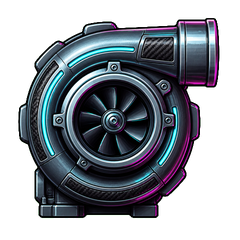
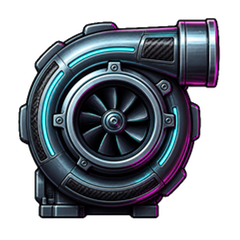
R145: the Astra static proofs are in the theme tree; the hero on stage does not change
Owner-briefed intake of three rasters, SC-06 ui/scene_character.png, SY-06 symbols/h2.png
and SY-09 symbols/m3.png, from the chatgpt-astra-static-proof package, through the real
ingest path. Brief saved verbatim.

THE HERO ON STAGE WILL NOT CHANGE. App.svelte:2261 mounts SceneGroup without heroMode,
SceneGroup.svelte:46 defaults it to 'idle', and SceneGroup.svelte:96-97 draws HeroIdle,
which paints ui/hero/hero_crossed_idle_6f.png (HeroIdle.svelte:139, :321).
scene_character.png is only in the {:else} branch at SceneGroup.svelte:99. Confirmed live
at 1280: the page never requests scene_character.png. In the brief's words: hero on stage
will not change until Path 1 freeze points rest at this file.

PROVENANCE VERIFIED, NOT REPORTED. The supplier's retouch function, run in memory on
HEAD's three files and resized with the same sharp 0.35.4 lanczos3, reproduces all three
delivered proofs byte for byte. The proofs are a deterministic function of the shipped
art: zero generated pixels, and the three rejected gpt-image edits contribute nothing.
The shipped art is R137's OpenAI gpt-image-1 placeholder set, owner-authorised under
support Ticket 456254 for development-stage artwork. The supplier's "silhouetteIoU: 1" is
a literal in its script, not a measurement, so IoU was measured here.

THE INGEST PATH, CALIBRATED FIRST. Today's ingest.py reproduces the SHIPPED h2.png and
scene_character.png byte for byte from their recorded 2026-08-24 sources, so it is the
[…]

diff --git a/reports/briefs/FS_R145_AstraStaticProofIntake_Prompt.md b/reports/briefs/FS_R145_AstraStaticProofIntake_Prompt.md
@@ -1,0 +1,81 @@
+R145: ASTRA STATIC PROOF INTAKE — THREE FILES ONLY.
+Review lane. Medium effort. Save and commit this brief verbatim.
+
+WHY THIS EXISTS
+Owner restarted npm and saw no change. Correct: chatgpt-astra-static-proof
+is scratch-only. Shipped rasters were never touched. This session copies
+the three accepted proofs into the live theme tree so the look-pass is real.
+
+FENCE
+- Only these three live rasters may change, and only after ingest accepts them.
+- Do not stage unrelated WIP rasters. Do not generate images. Do not call APIs.
+- Do not touch games/ math, rgsService.ts, gameStore.ts, HeroIdle flipbooks
+  except to REPORT which file the on-stage hero actually draws.
+- Owner preview on 5173 stays untouched. Use another port.
+- Fingerprint dirty rasters before any file op.
+- Kit packaging forbidden.
+
+SOURCES
+/Users/jt/math-sdk/.scratch/art-review/chatgpt-astra-static-proof/
+  01-hero-rest-680x1344.png
+  02-h2-turbo-480.png
+  03-m3-dash-480.png
+  PROMPTS_AND_QA.md
+
+TARGETS (shipped)
+  frontend/public/assets/themes/future-spinner/ui/scene_character.png
+  frontend/public/assets/themes/future-spinner/symbols/h2.png
+  frontend/public/assets/themes/future-spinner/symbols/m3.png
+
+PRECONDITIONS
+1. On main, pull. Confirm the three sources exist and the three targets exist.
+2. Read PROMPTS_AND_QA.md. Authority: IoU 1.000 vs shipped, max RGB 14/255,
+   generative edits rejected, 480s are 2× of native 240s.
+3. Trace the live hero: SceneGroup / HeroIdle / App. Record file:line for
+   which raster is on stage at rest. If rest is an idle sheet and not
+   scene_character.png, STILL swap scene_character.png, but say clearly
+   "hero on stage will not change until Path 1 freeze points rest at this
+   file." Do not invent a sheet rebuild in this session.
+
+WORKSTREAM 1 — MEASURE THEN INGEST
+- Measure source vs target dimensions.
+- Hero: 680×1344 → 680×1344, native alpha, no keyer.
+- H2 / M3: 480×480 proofs → shipped 240×240. Downscale with the project
+  ingest path (the one that already proved byte-reproducible on hero
+  sheets). Do not stretch. Do not green-key; these are RGBA cutouts.
+- Refuse if aspect drift, IoU vs current shipped < 0.99, or alpha hole.
+- Compare-against-shipped: expect near-identical silhouette; material
+  delta only. If a proof is a different robot/turbo/dash, STOP that row.
+
+WORKSTREAM 2 — SWAP
+- Copy accepted ingest outputs over the three targets in the working tree.
+- Do not commit the rasters unless the repo's current rule allows owner-
+  approved theme rasters on this lane. If the standing fence is still
+  "records only, rasters uncommitted," leave them dirty for the owner's
+  look-pass and say so. Prefer matching how R137 placeholders were
+  handled: visible locally, committed only if main now accepts theme
+  rasters.
+- Leave idle / win / brace sheets untouched.
+
+WORKSTREAM 3 — PROVE IN A BROWSER YOU START
+- Own server, not 5173.
+- Confirm h2.png and m3.png network responses are the new bytes
+  (hash vs pre-swap).
+- Confirm scene_character.png hash changed.
+- Screenshot rest + a board that contains H2 and M3 if the mock/dev
+  path can show them; otherwise show paytable / symbol atlas.
+- 1280 and 390: no clip, no missing asset, zero console 404s.
+
+RECORDS
+SESSION_REPORT + dated archive. Brief verbatim.
+State in one line whether the on-stage hero will or will not change
+after this swap.
+
+DO NOT
+- Path 1 freeze / strip deletion (next brief if owner still wants it).
+- Audio.
+- Any other symbol.
+
+CLOSE
+PR or dirty working tree per the fence you find on HEAD.
+Owner look-pass: hard refresh the preview after this lands locally.
